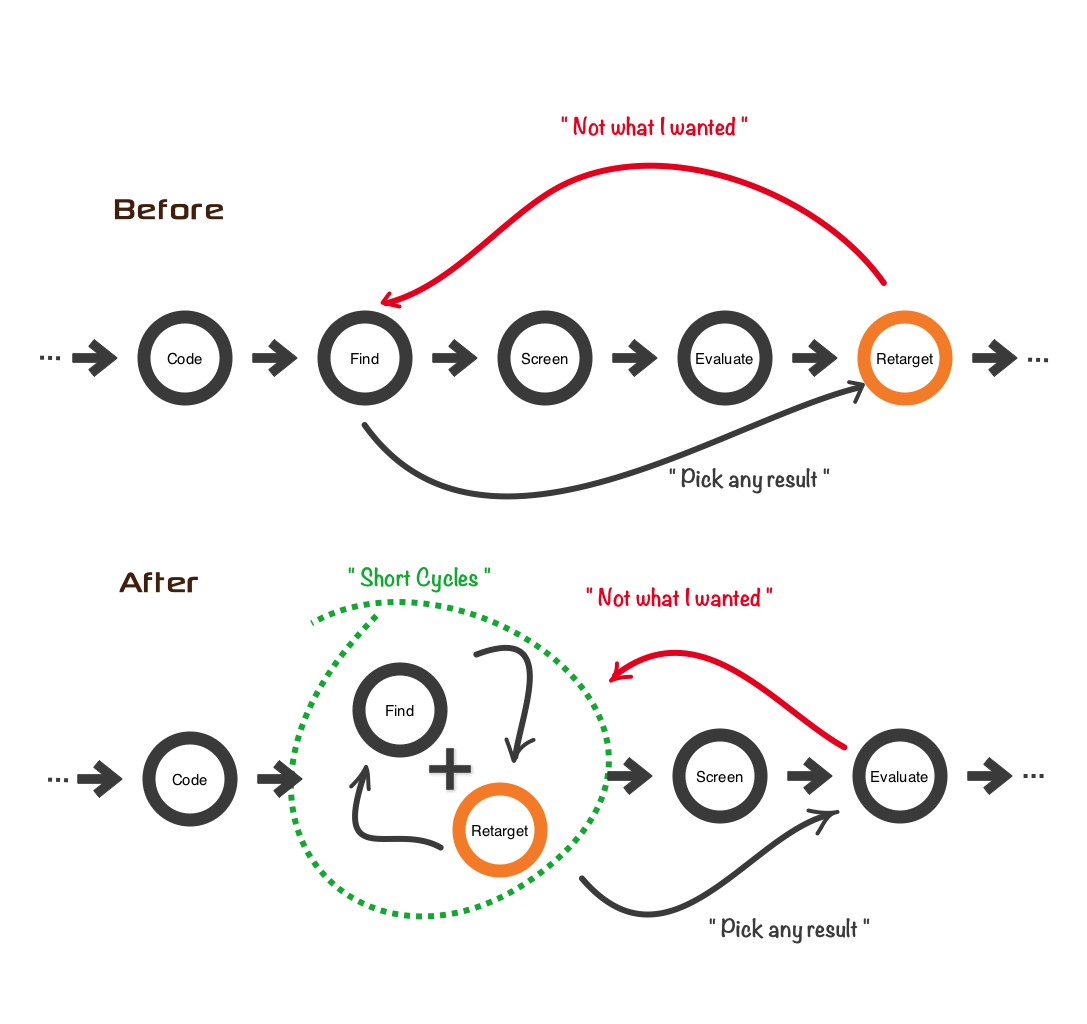
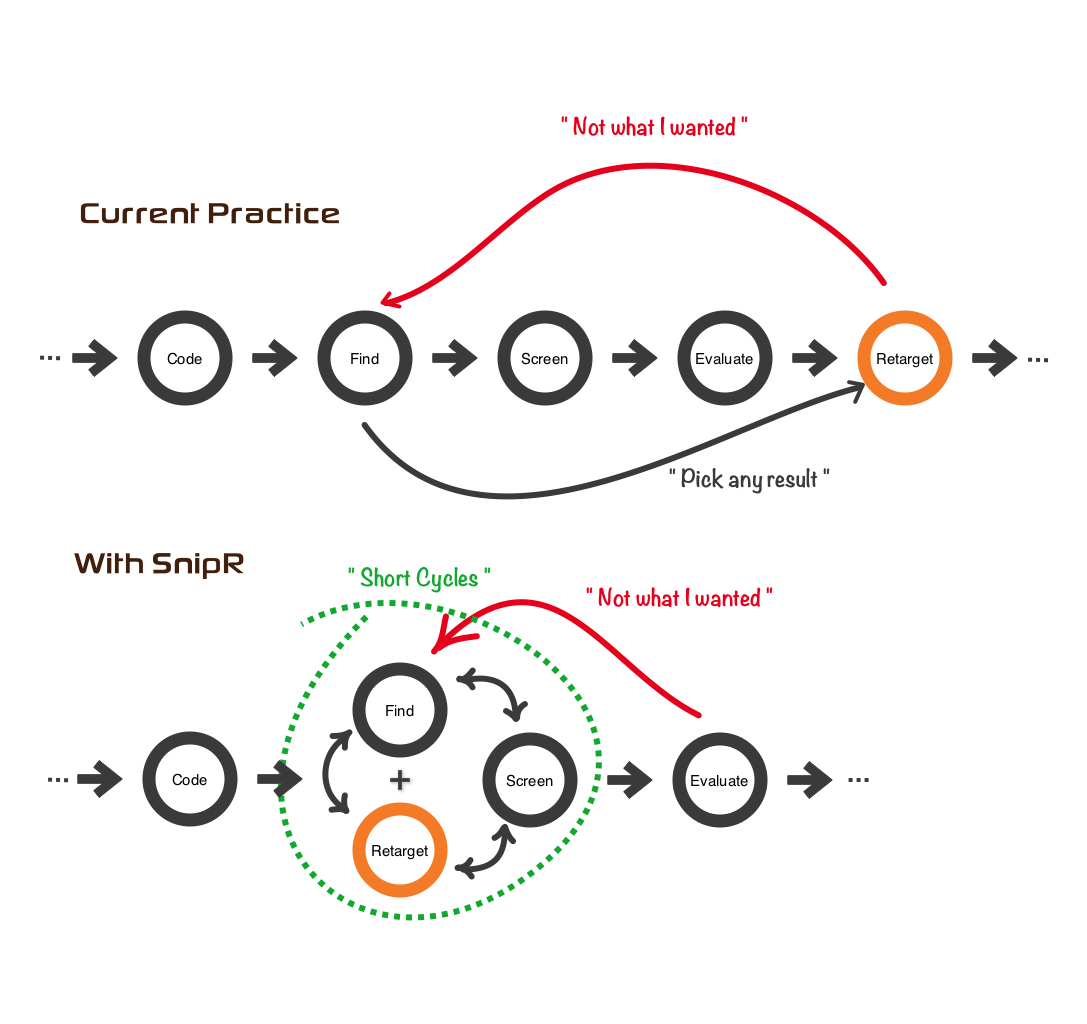
changes have been approved by Jim. Thanks Claudia.

diff --git a/proposal/questions.tex b/proposal/questions.tex
@@ -7,8 +7,7 @@ An essential part of knowing what kind of search-driven tools could help develop
 
 \begin{itemize}
 	
-	\item[RQ1] What kind of SnipR commands could be invoked directly---and 
-	non-intrusively---from the search box? 
+	\item[RQ1] What kind of SnipR commands could be invoked directly from the search box? 
 	
 	Unpacking this a bit, I am looking for a design of code retargeting commands that 
 	could be invoked from the search box without losing any sight of the current 
@@ -52,12 +51,12 @@ An essential part of knowing what kind of search-driven tools could help develop
 	% search interface would minimize any back and forth movement between results 
 	% evaluation and further searches.
 	
-	\item[RQ3] How does \emph{SnipR} fit in the querying process of a modern code search engine?
+	\item[RQ3] Where does \emph{SnipR} belong within the query processing step of any 
+	modern code search engine?
 	
-	The question is about how we fit the \emph{SnipR} approach in the query processing step of a 
-	code search engine. The answer to this question will be based on the Sourcerer\cite{Bajracharya:2006vn} 
-	Internet-scale code search engine, where the user is provided with ways of structure-based code search to 
-	find relevant example code.
+	The answer to this question will be based on a working system for code search, such as 
+	Sourcerer\cite{Bajracharya:2006vn} Internet-scale code search engine, where the user is 
+	provided with ways of structure-based code search to find relevant example code.
 	% 
 	% \item[RQ3] Will productivity time increase when using SnipR versus not using SnipR?
 	% 
@@ -65,13 +64,31 @@ An essential part of knowing what kind of search-driven tools could help develop
 	% down, then productivity time goes up. Since SnipR is trying to minimize 
 	% integration time, then productivity is likely to increase.
 	
-	\item[RQ4] Will there be a productivity boost when using \emph{SnipR} versus not using \emph{SnipR}?
+	% \item[RQ4] How does the performance---in terms of the time to perform a more complete 
+	% code search task---of a system using SnipR compare to systems where SnipR is not 
+	% available?
+	% 
+	% \item[RQ4] How does the performance---in terms of the time needed to perform a more complete 
+	% code search task---of the SnipR approach compare to the current approaches of code search? 
 	
-	Retargeting in advance is directly linked to minimizing integration time. If integration time goes 
-	down, then productivity---the time required to write a fixed amount of code---goes up. Since the 
-	retarget code produced by \emph{SnipR} is the best fit, then the integration of such code is faster than the 
-	integration of less suitable code; i.e., code that relies only on ranking values. Consequently, I anticipate a 
-	boost in productivity.
+	\item[RQ4] How does the time needed to perform a more complete code search task of the SnipR approach compare 
+	to the current approaches of code search? 
+	
+	If the developer retargets the source in advance, then the analysis results (See the evaluation step in 
+	Figure~\ref{fig:retargeting}) of retargeted examples are available immediately. This immediate feedback saves 
+	valuable human time searching for appropriate example code. As a result, by getting immediate feedback, the developer 
+	gets the work done more quickly. This will hold true only if \emph{SnipR}'s retargeting operations are efficient, which 
+	will be demonstrated by answering RQ2.
+	
+	% 
+	%  
+	% \item[RQ4] Will there be a productivity boost when using \emph{SnipR} versus not using \emph{SnipR}?
+	% 
+	% Retargeting in advance is directly linked to minimizing integration time. If integration time goes 
+	% down, then productivity---the time required to write a fixed amount of code---goes up. Since the 
+	% retarget code produced by \emph{SnipR} is the best fit, then the integration of such code is faster than the 
+	% integration of less suitable code; i.e., code that relies only on ranking values. Consequently, I anticipate a 
+	% boost in productivity.
 		
 	% \item[RQ4] Would the very way code manipulation is piggy-backed to query processing 
 	% and advised by users' queries lead to a successful code integration?
@@ -82,4 +99,4 @@ An essential part of knowing what kind of search-driven tools could help develop
 	% produced by SnipR was successfully integrated.
 \end{itemize}
 
-All this work is motivated by a grander vision of where the next generation of programming practices and behaviors involving code search could take us. I, for one, believe the time is ripe to change the role of code search as a development tool; i.e., changing its role from a mere supporting role to a starring role.
+All this work is motivated by a grander vision of where the next generation of programming practices and behaviors involving code search could take us. The time is ripe to change the role of code search as a development tool from a mere supporting role to a starring role.

diff --git a/proposal/intro.tex b/proposal/intro.tex
@@ -22,7 +22,7 @@ Given this hit on productivity, I propose a radically new approach in search-ori
     \label{fig:retargeting}
 \end{figure}
 
-Figure~\ref{fig:retargeting} illustrates the search process before and after \emph{SnipR}. A pre--\emph{SnipR} scenario requires effort from the developer to find and select the most promising examples (i.e., screening), and to evaluate each one of them before eventually consuming them (e.g., done with integration) after a series of code modifications done directly from the IDE (i.e., retargeting). If the resulting code is not what the developer wanted, then the developer will restart the search process. In a post--\emph{SnipR} scenario, the developer engages in virtuous loop where the developer finds only the promising code that can be retargeted. This minimizes the number of iterations in the search process, since the screening and evaluation steps are only dealing with best choices---choices that would be easier to consume at the IDE.
+Figure~\ref{fig:retargeting} illustrates the search process before and after \emph{SnipR}. A pre--\emph{SnipR} scenario requires effort from the developer to find and select the most promising examples (i.e., screening), and to evaluate each one of them before eventually consuming them (e.g., done with integration) after a series of code modifications done directly from the IDE (i.e., retargeting). If the resulting code is not what the developer wanted, then the developer will restart the search process. In a post--\emph{SnipR} scenario, the developer engages in virtuous loop where the developer finds and selects only the promising code that can be retargeted. This minimizes the number of iterations in the search process, since the evaluation step is only dealing with best choices---choices that would be easier to consume at the IDE.
 
 In retrospect, if the time required to determine the most suitable results is minimized by retargeting, then the effort of integrating these search results is also minimized. If retargeting is unsuccessful, then the developer will continue searching for more examples and retarget as needed. Overall, \emph{SnipR} will allow requests for results and commands\footnote{The everyday search box would be enhanced with command line power; e.g., code manipulation commands.} to be intermixed---or used separately---by the developer to explore potential modifications of example code (See post--\emph{SnipR} scenario in Figure~\ref{fig:retargeting}). This offers two important advantages. If the developer retargets the source in advance, then the analysis results (i.e., evaluation) of retargeted examples are available immediately, which saves valuable human time searching for appropriate example code. If the developer is choosing what example code to retarget, then the analysis results can inform the decision, pointing the developer to the best choice. This is an attractive proposition and very different to the direction taken by the status quo. It is attractive because one can figure out as early as possible if an example code is appropriate or not. It is different because one can do this without requiring to leave the search interface.
 % This proposed approach suggests an environment where human and search engine help each other out and accept the challenge of retargeting code on the spot.  
@@ -30,14 +30,11 @@ In retrospect, if the time required to determine the most suitable results is mi
 This work anticipates the following technical and theoretical contributions:
 
 \begin{itemize}
-\item I'd provide a command line language for retargeting source code directly from a search interface. 
-\item I'd present the algorithms that infer code mappings from example code and the new 
-    retargeting operators well suited for manipulating example code; i.e., applying created mappings.
-\item I'd present the first search-oriented architecture---based on \emph{SnipR}---in the context of 
-    better code search engines. 
-\item I'd report on my implementation of this architecture on top of Sourcerer\cite{Bajracharya:2006vn}, showing that this architecture is easy to implement.
-\item I'd evaluate this architecture and discuss generated results.
-\item I'd provide an evaluation of the efficiency of the \emph{SnipR} approach versus existing approaches. 
+\item A command line language for retargeting source code. 
+\item Algorithms for learning code mappings from example code. 
+\item A set of retargeting operators well suited for manipulating example code; i.e., applying code mappings.
+\item A realization of the \emph{SnipR} conceptual architecture in a working system---e.g., Sourcerer\cite{Bajracharya:2006vn}---for code search and retargeting. 
+\item An evaluation of the efficiency of the \emph{SnipR} approach versus existing approaches for doing code search and retargeting tasks. 
 \end{itemize}
 
 \input{proposal/questions}
